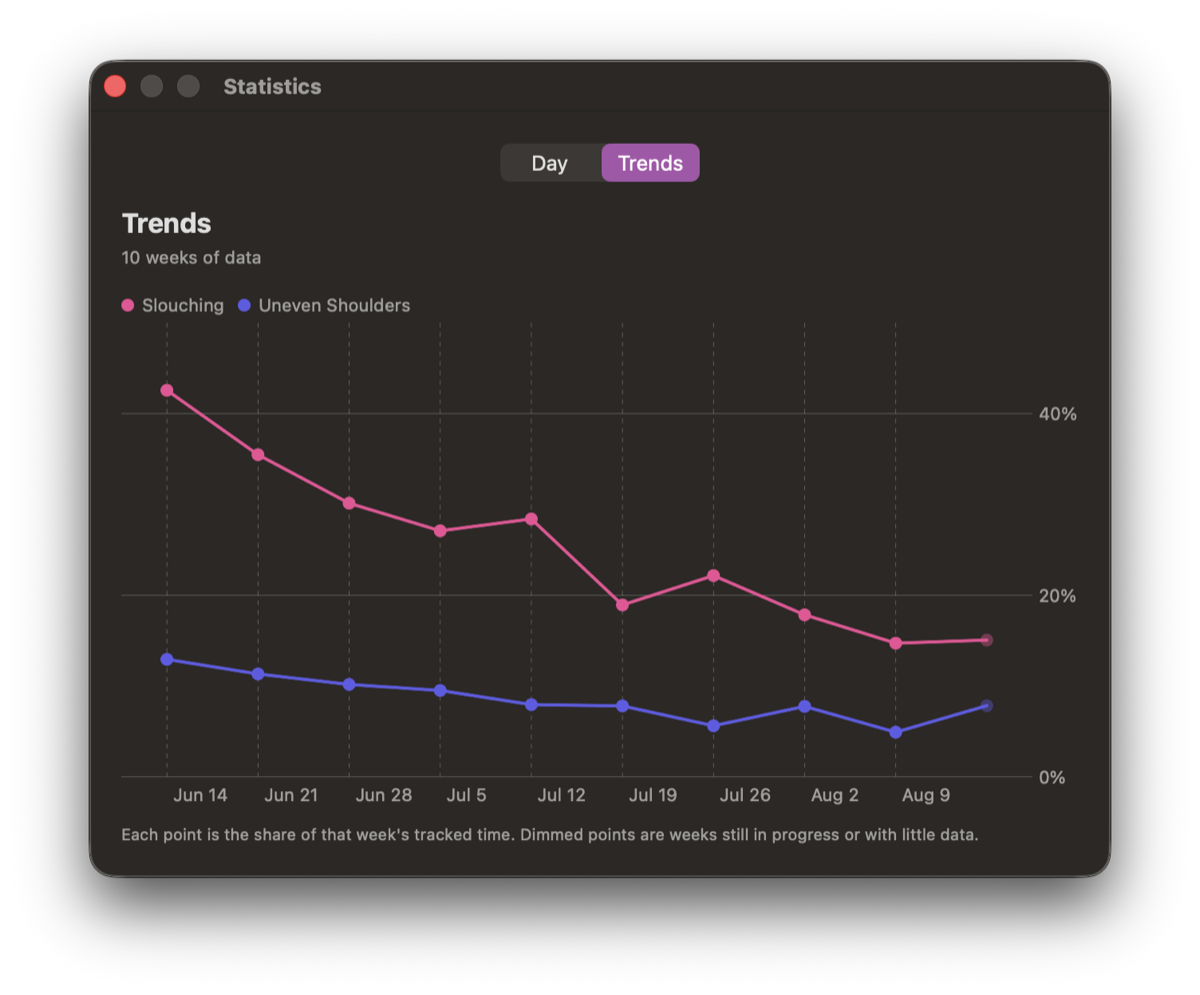
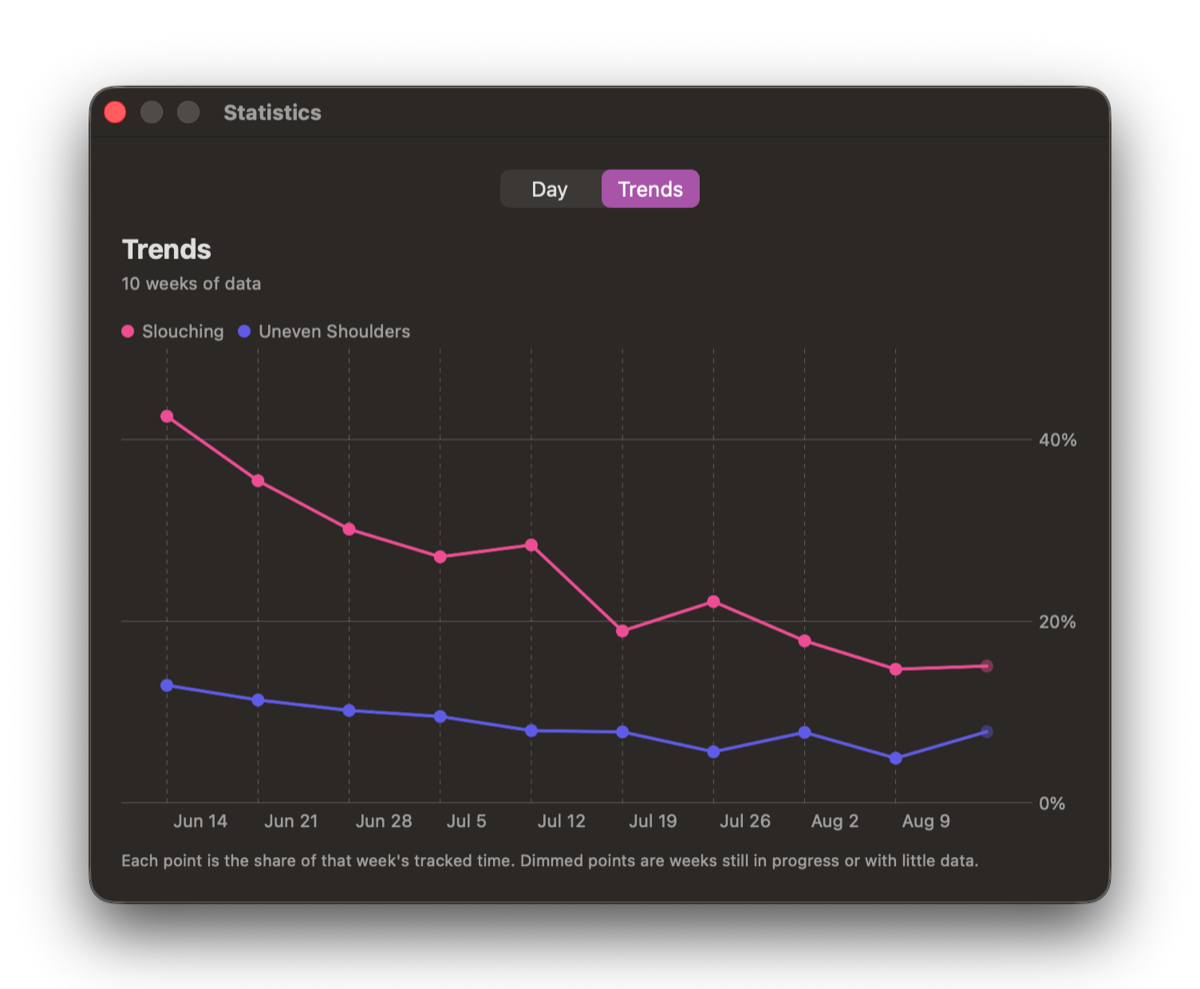
Centre the window, not its shadow, in README screenshots
macOS drops window shadows downward, so a raw capture carries about twice as
much padding below the window as above (61 vs 118 here). Resizing it straight
through left the window high in its box and the gap under the image on the
README read as a hole. Pad to whatever the visible shadow needs and apply it
both sides; the crop only takes the tail below 3% alpha, since cutting closer
leaves a faint hard edge.

diff --git a/scripts/compose-screenshots.swift b/scripts/compose-screenshots.swift
@@ -142,6 +142,59 @@ func opaqueCopy(of source: NSBitmapImageRep) -> NSBitmapImageRep {
 /// Draws `image` centered on an opaque canvas. Opaque on purpose: flattening
 /// is what turns the capture's transparent rounded corners into the canvas
 /// color rather than black, and what keeps the alpha channel out of the file.
+/// Re-pads a README capture so the *window* sits centred, not the window plus
+/// its shadow. macOS drops its window shadow downward, so a raw capture carries
+/// roughly twice as much padding below the window as above it (measured
+/// 2026-08-28: 61px above, 118px below on a 995px capture). Centring the whole
+/// capture - which is what you get by just resizing it - leaves the window
+/// visibly high in its own box, and on a README the gap under the image reads
+/// as a hole while the gap above looks normal.
+///
+/// Padding is set to whatever the visible shadow actually needs, measured at an
+/// alpha where it stops being perceptible, and then applied to both sides. That
+/// crops the shadow's invisible tail rather than its visible part: cutting
+/// closer leaves a faint hard edge where the gradient is still around 7%.
+func balancedRep(for rep: NSBitmapImageRep) -> NSBitmapImageRep {
+	let w = rep.pixelsWide, h = rep.pixelsHigh
+
+	func verticalBounds(minimumAlpha: CGFloat) -> (top: Int, bottom: Int) {
+		var top = -1, bottom = -1
+		for y in 0..<h {
+			var hit = false
+			// Every 4th column: the window spans most of the width, so this
+			// finds the same bounds for a quarter of the work.
+			for x in stride(from: 0, to: w, by: 4) {
+				if let c = rep.colorAt(x: x, y: y), c.alphaComponent > minimumAlpha { hit = true; break }
+			}
+			if hit { if top < 0 { top = y }; bottom = y }
+		}
+		return (top, bottom)
+	}
+
+	let window = verticalBounds(minimumAlpha: 0.90)
+	let visible = verticalBounds(minimumAlpha: 0.03)
+	guard window.top >= 0, visible.top >= 0 else { return rep }
+
+	let pad = max(window.top - visible.top, visible.bottom - window.bottom)
+	let newHeight = (window.bottom - window.top + 1) + 2 * pad
+	guard newHeight > 0, let out = NSBitmapImageRep(
+		bitmapDataPlanes: nil, pixelsWide: w, pixelsHigh: newHeight,
+		bitsPerSample: 8, samplesPerPixel: 4, hasAlpha: true, isPlanar: false,
+		colorSpaceName: .deviceRGB, bytesPerRow: w * 4, bitsPerPixel: 32
+	), let context = NSGraphicsContext(bitmapImageRep: out) else { return rep }
+
+	NSGraphicsContext.saveGraphicsState()
+	NSGraphicsContext.current = context
+	NSColor.clear.setFill()
+	NSRect(x: 0, y: 0, width: CGFloat(w), height: CGFloat(newHeight)).fill()
+	// Bottom-up coords: place the window's top edge `pad` below the canvas top.
+	let y = CGFloat(newHeight - pad - h + window.top)
+	rep.draw(in: NSRect(x: 0, y: y, width: CGFloat(w), height: CGFloat(h)))
+	NSGraphicsContext.restoreGraphicsState()
+	return out
+}
+
+
 func canvasRep(for image: NSImage, size: CGSize, background: NSColor, margin: CGFloat, maxScale: CGFloat) -> NSBitmapImageRep {
 	guard let rep = NSBitmapImageRep(
 		bitmapDataPlanes: nil,
@@ -259,7 +312,7 @@ for theme in ["light", "dark"] {
 		}
 
 		let readme = "\(options.outDir)/readme/\(theme)/\(name).png"
-		write(resizedRep(for: image, toWidth: options.readmeWidth), to: readme)
+		write(balancedRep(for: resizedRep(for: image, toWidth: options.readmeWidth)), to: readme)
 		print("  readme   \(Int(options.readmeWidth))px  \(theme)/\(name).png  \(kilobytes(readme))KB")
 		readmeNames.insert(name)
 		produced += 1
